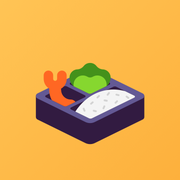
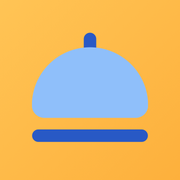
한식·앱 아이콘을 돔 덮개(Streamline Color)로 변경하고 출처 표기 추가

Changed region(s): [[0.1667, 0.1667, 0.8333, 0.8056]]

diff --git a/index.html b/index.html
@@ -43,7 +43,7 @@
       <ul id="list" class="list"></ul>
       <p id="empty" class="empty" hidden>아직 식당이 없어요. 자주 가는 곳부터 추가해 보세요.</p>
     </section>
-    <p class="credit">아이콘 <a href="https://github.com/microsoft/fluentui-emoji" target="_blank" rel="noopener noreferrer">Fluent Emoji</a> © Microsoft Corporation (MIT)</p>
+    <p class="credit">아이콘 <a href="https://github.com/microsoft/fluentui-emoji" target="_blank" rel="noopener noreferrer">Fluent Emoji</a> © Microsoft Corporation (MIT), <a href="https://streamlinehq.com" target="_blank" rel="noopener noreferrer">Streamline</a> (CC BY 4.0)</p>
   </main>
 
 

diff --git a/icons/README.md b/icons/README.md
@@ -1,6 +1,6 @@
 # 아이콘 출처
 
-이 폴더의 SVG 아이콘은 Microsoft의 [Fluent Emoji](https://github.com/microsoft/fluentui-emoji) 중 **Flat** 스타일입니다.
+이 폴더의 SVG 아이콘은 대부분 Microsoft의 [Fluent Emoji](https://github.com/microsoft/fluentui-emoji) 중 **Flat** 스타일입니다. (`rice.svg`만 아래 "추가 출처"의 다른 세트입니다.)
 
 - 저작자: Microsoft Corporation
 - 라이선스: MIT (전문은 [LICENSE](LICENSE) 참고)
@@ -8,7 +8,7 @@
 
 | 파일 | Fluent Emoji 이름 |
 |---|---|
-| rice.svg | bento-box |
+| rice.svg | serving-dome-flat (Streamline Color, 아래 추가 출처 참고) |
 | noodle.svg | steaming-bowl |
 | soup.svg | pot-of-food |
 | sushi.svg | sushi |
@@ -23,4 +23,11 @@
 | katsu.svg | curry-rice |
 | pasta.svg | spaghetti |
 
-앱 아이콘(`favicon.svg`, `favicon-32.png`, `apple-touch-icon.png`)에는 같은 세트의 `bento-box`를 사용했습니다.
+## 추가 출처
+
+`rice.svg`(한식·기본 아이콘)와 앱 아이콘(`favicon.svg`, `favicon-32.png`, `apple-touch-icon.png`)에는
+[Streamline](https://streamlinehq.com)의 **Streamline Color** 세트 중 `serving-dome-flat`을 사용했습니다.
+
+- 저작자: Streamline
+- 라이선스: [CC BY 4.0](https://creativecommons.org/licenses/by/4.0/)
+- 받은 곳: Iconify의 `streamline-color` 세트 (`rice.svg`는 파일 이름만 바꿨고, 앱 아이콘은 호박색 배경 위에 얹어 크기를 조정했습니다)
